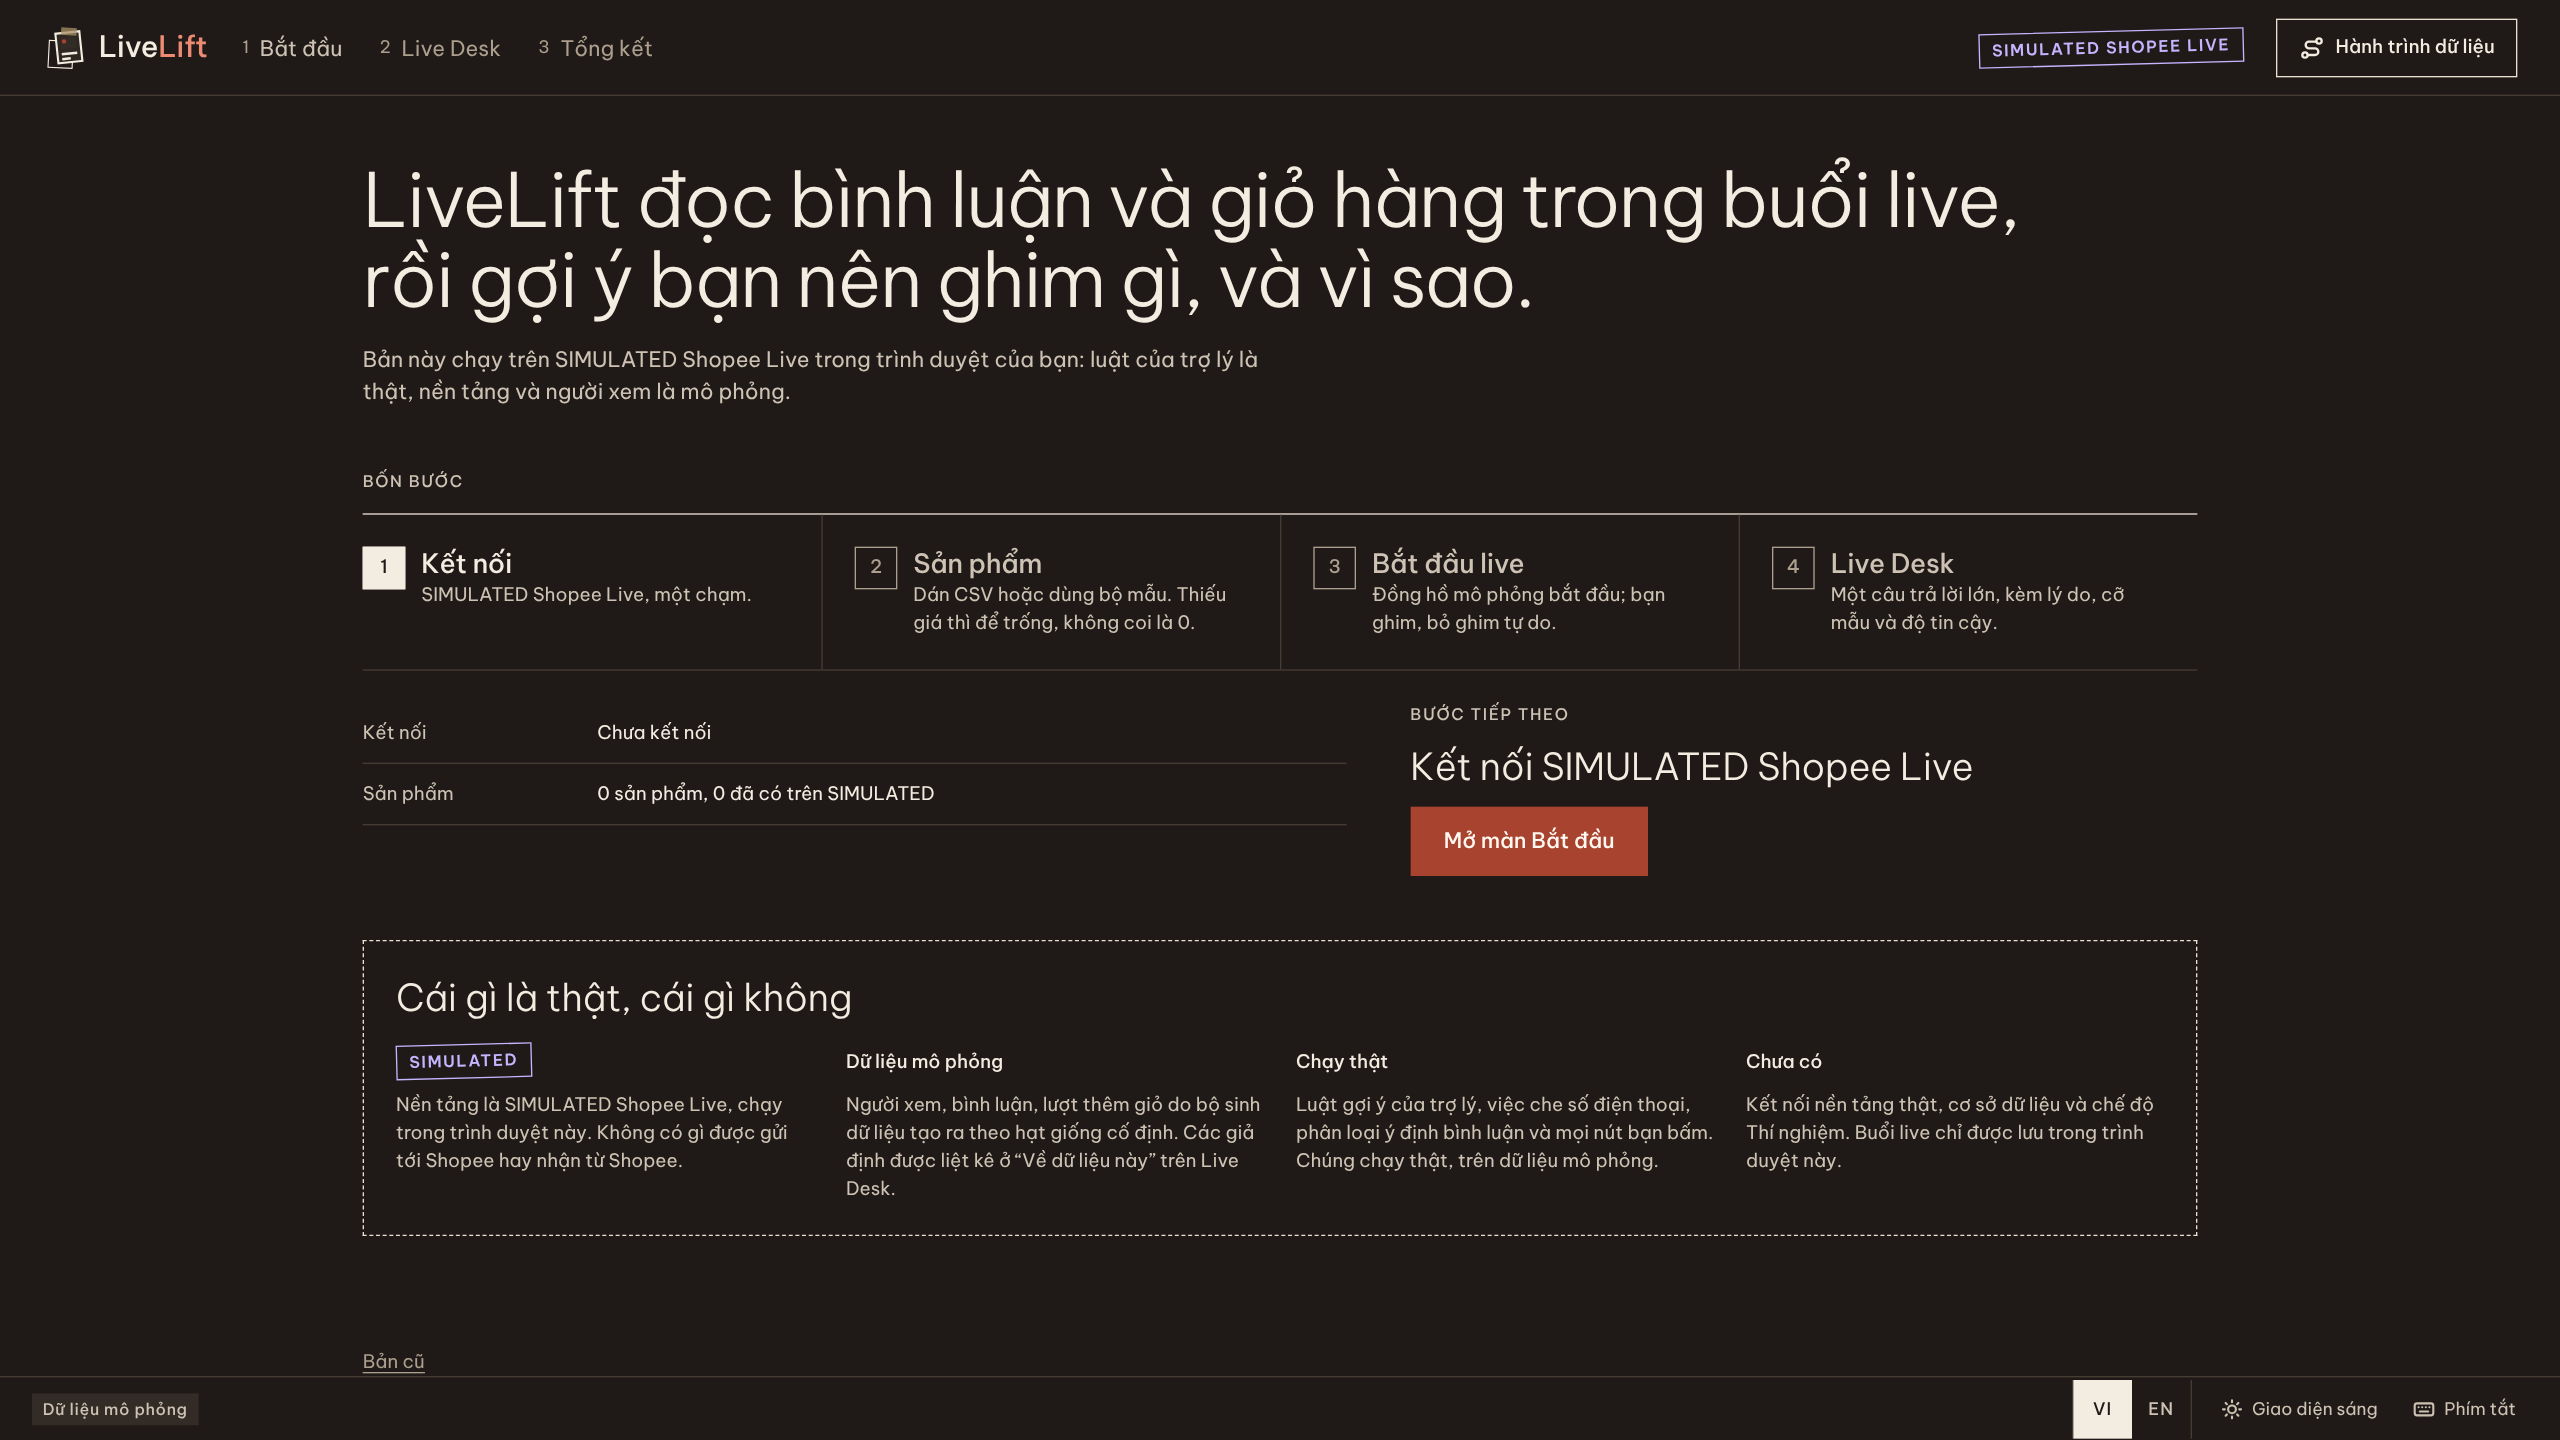
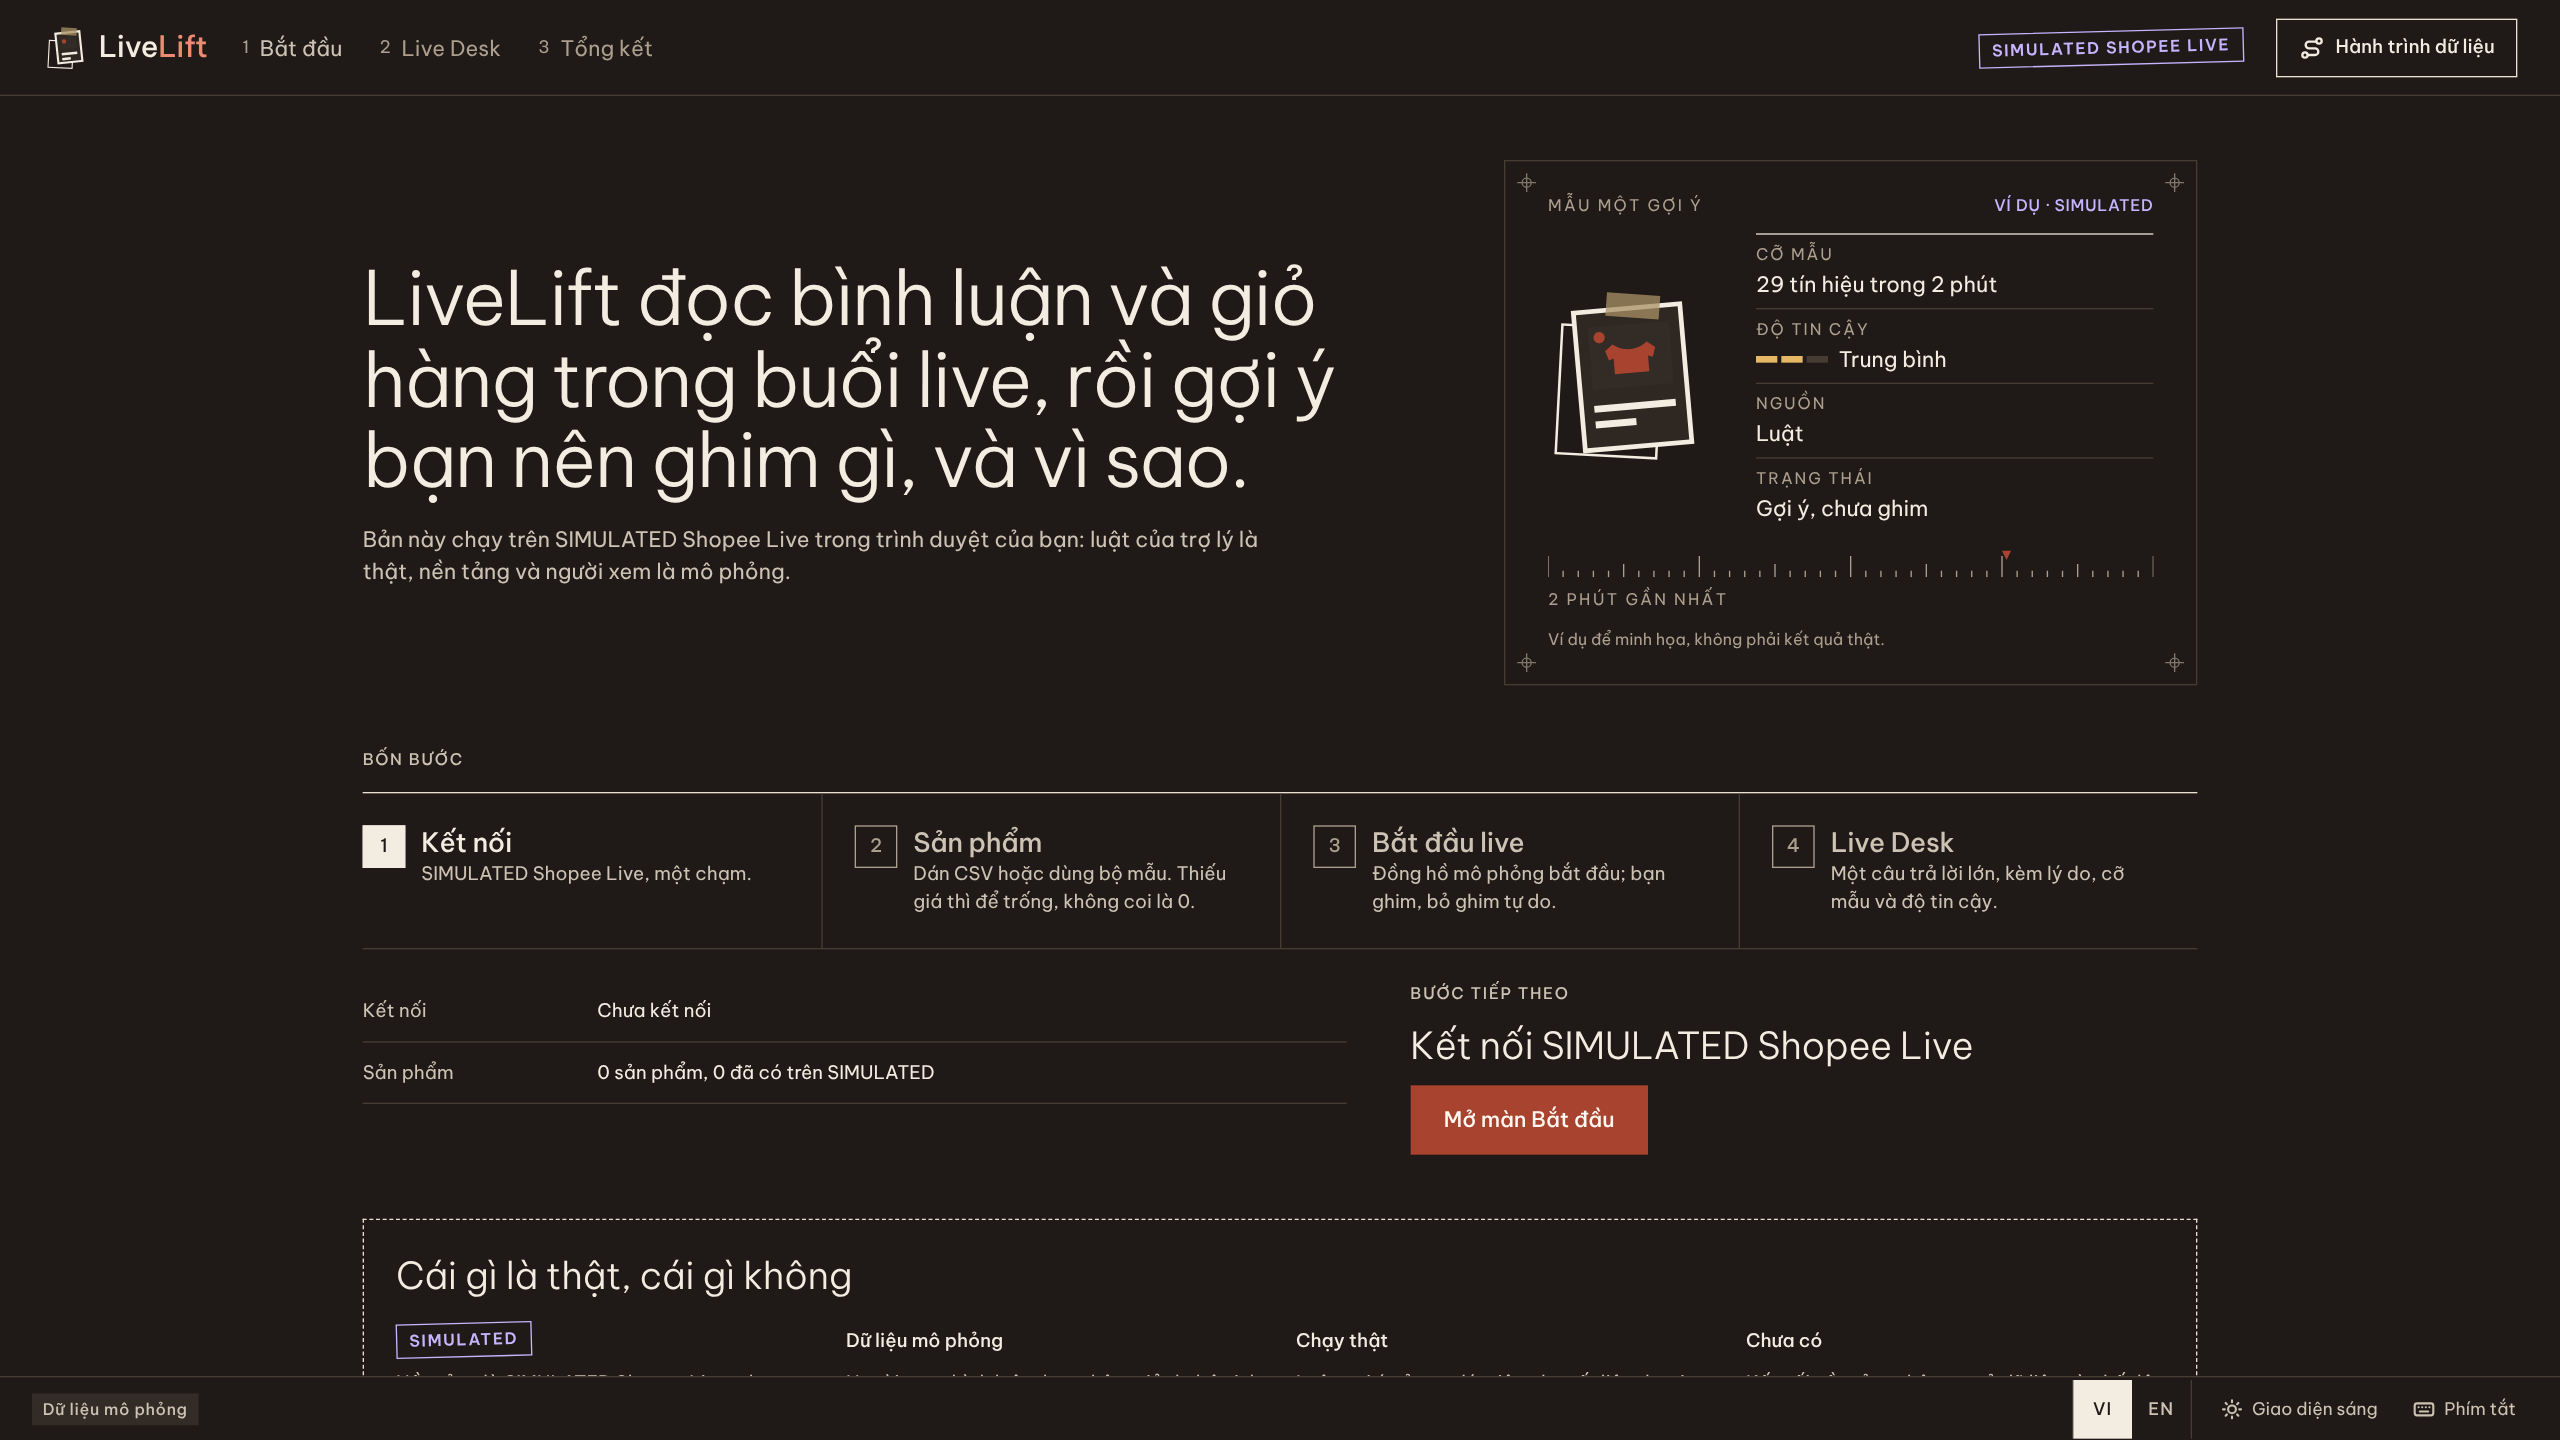
feat(livedesk): Home spec-sheet hero, a decoration whose labels are the real suggestion fields
The labels (sample size, confidence, source, state) are what every suggestion shows; the values are an example and
say so (EXAMPLE, SIMULATED). Hidden from assistive tech, dropped below 1180px. Adds a test, refreshes the Home
screenshots, updates the AGENTS.md baseline.

Claude-Session: https://claude.ai/code/session_01T5jHqYtofkC61PJ5z9MqDx

diff --git a/next/src/components/livedesk/HeroSpec.tsx b/next/src/components/livedesk/HeroSpec.tsx
@@ -1,0 +1,77 @@
+"use client";
+
+import React from "react";
+import { useShell } from "./Shell";
+import { SimTag } from "./ui";
+
+/** A registration mark, as on a printed spec sheet. Decoration only. */
+function Cross({ className }: { className: string }) {
+  return (
+    <svg className={`spec-cross ${className}`} viewBox="0 0 16 16" width="16" height="16" aria-hidden="true" focusable="false">
+      <path d="M8 1v14M1 8h14" fill="none" strokeWidth="1" />
+      <circle cx="8" cy="8" r="3.4" fill="none" strokeWidth="1" />
+    </svg>
+  );
+}
+
+/**
+ * Home's one decoration: the anatomy of a suggestion as a spec sheet. The labels are the real things the desk shows with
+ * every suggestion (sample size, confidence, source, state). The values are an EXAMPLE and say so; nothing here is a result.
+ */
+export function HeroSpec() {
+  const { c } = useShell();
+  const h = c.heroSpec;
+  return (
+    <aside className="spec" aria-hidden="true" data-testid="hero-spec">
+      <Cross className="tl" />
+      <Cross className="tr" />
+      <Cross className="bl" />
+      <Cross className="br" />
+      <div className="spec-head">
+        <span className="spec-kicker">{h.kicker}</span>
+        <SimTag quiet>{h.simTag}</SimTag>
+      </div>
+      <div className="spec-body">
+        <svg className="spec-card" viewBox="0 0 112 118" width="168" height="177" focusable="false">
+          <rect className="lm-back" x="7" y="24" width="64" height="82" fill="none" strokeWidth="1.6" transform="rotate(3 39 65)" />
+          <g transform="rotate(-5 54 58)">
+            <rect className="lm-card" x="20" y="12" width="68" height="88" strokeWidth="3" />
+            <rect className="lm-photo" x="28" y="22" width="52" height="40" />
+            <path className="spec-garment" d="M43 34 L38 38 L40 44 L43 43 L43 53 L65 53 L65 43 L68 44 L70 38 L65 34 Q54 42 43 34 Z" />
+            <circle className="lm-live" cx="35" cy="29" r="3.6" />
+            <rect className="lm-bar" x="28" y="72" width="52" height="4.4" />
+            <rect className="lm-bar" x="28" y="82" width="26" height="4.4" />
+          </g>
+          <rect className="lm-tape" x="37" y="3" width="34" height="15" transform="rotate(4 54 10)" />
+        </svg>
+        <dl className="spec-rows">
+          {h.rows.map(([label, value], i) => (
+            <div key={label}>
+              <dt>{label}</dt>
+              <dd>
+                {i === 1 && (
+                  <span className="spec-meter">
+                    <i className="on" />
+                    <i className="on" />
+                    <i />
+                  </span>
+                )}
+                {value}
+              </dd>
+            </div>
+          ))}
+        </dl>
+      </div>
+      <div className="spec-ruler">
+        <svg viewBox="0 0 400 22" preserveAspectRatio="none" width="100%" height="22" focusable="false">
+          {Array.from({ length: 41 }, (_, i) => (
+            <line key={i} className="spec-tick" x1={i * 10} x2={i * 10} y1={22} y2={i % 10 === 0 ? 6 : i % 5 === 0 ? 12 : 17} />
+          ))}
+          <path className="spec-mark" d="M300 2 l6 0 l-3 7 z" />
+        </svg>
+        <span className="spec-kicker">{h.ruler}</span>
+      </div>
+      <p className="spec-fine">{h.fine}</p>
+    </aside>
+  );
+}

diff --git a/next/src/components/livedesk/calm.css b/next/src/components/livedesk/calm.css
@@ -3677,3 +3677,122 @@
 .ld .lm-tape {
   fill: var(--kraft);
 }
+
+/* WP9: Home hero. The one decoration is a spec sheet of a suggestion: labels are real, the values an example. */
+.ld .home-hero {
+  display: grid;
+  grid-template-columns: minmax(0, 1fr) 520px;
+  gap: var(--s-48);
+  align-items: center;
+}
+.ld .home-hero .home-intro {
+  max-width: 760px;
+}
+.ld .spec {
+  position: relative;
+  display: grid;
+  gap: var(--s-12);
+  padding: var(--s-24) var(--s-32);
+  border: 1px solid var(--line);
+  background: var(--surface);
+  overflow: hidden;
+}
+.ld .spec-cross {
+  position: absolute;
+  stroke: var(--ink-3);
+  opacity: 0.7;
+}
+.ld .spec-cross.tl { top: 8px; left: 8px; }
+.ld .spec-cross.tr { top: 8px; right: 8px; }
+.ld .spec-cross.bl { bottom: 8px; left: 8px; }
+.ld .spec-cross.br { bottom: 8px; right: 8px; }
+.ld .spec-head {
+  display: flex;
+  justify-content: space-between;
+  align-items: center;
+  gap: var(--s-16);
+}
+.ld .spec-kicker {
+  font-size: var(--fs-12);
+  letter-spacing: 0.14em;
+  text-transform: uppercase;
+  color: var(--ink-3);
+}
+.ld .spec-body {
+  display: grid;
+  grid-template-columns: auto minmax(0, 1fr);
+  gap: var(--s-24);
+  align-items: center;
+}
+.ld .spec-card {
+  flex: none;
+  width: 132px;
+  height: auto;
+}
+.ld .spec-garment {
+  fill: var(--signal);
+}
+.ld .spec-rows {
+  display: grid;
+  margin: 0;
+}
+.ld .spec-rows > div {
+  display: grid;
+  gap: 1px;
+  padding: 6px 0;
+  border-top: 1px solid var(--line);
+}
+.ld .spec-rows > div:first-child {
+  border-top: 1px solid var(--line-strong);
+}
+.ld .spec-rows dt {
+  font-size: var(--fs-12);
+  letter-spacing: 0.12em;
+  text-transform: uppercase;
+  color: var(--ink-3);
+}
+.ld .spec-rows dd {
+  display: flex;
+  align-items: center;
+  gap: var(--s-8);
+  margin: 0;
+  font-size: var(--fs-16);
+  color: var(--ink);
+}
+.ld .spec-meter {
+  display: inline-flex;
+  gap: 3px;
+}
+.ld .spec-meter i {
+  width: 16px;
+  height: 5px;
+  background: var(--line);
+}
+.ld .spec-meter i.on {
+  background: var(--warn);
+}
+.ld .spec-ruler {
+  display: grid;
+  gap: var(--s-8);
+}
+.ld .spec-tick {
+  stroke: var(--ink-3);
+  stroke-width: 1;
+  vector-effect: non-scaling-stroke;
+}
+.ld .spec-mark {
+  fill: var(--signal);
+}
+.ld .spec-fine {
+  margin: 0;
+  font-size: var(--fs-12);
+  color: var(--ink-3);
+}
+@media (max-width: 1180px) {
+  .ld .home-hero {
+    grid-template-columns: 1fr;
+  }
+  .ld .spec {
+    display: none;
+  }
+}

diff --git a/next/src/components/livedesk/copy.ts b/next/src/components/livedesk/copy.ts
@@ -60,6 +60,13 @@ const vi = {
   // home
   homeTitle: "LiveLift đọc bình luận và giỏ hàng trong buổi live, rồi gợi ý bạn nên ghim gì, và vì sao.",
   homeLede: "Bản này chạy trên SIMULATED Shopee Live trong trình duyệt của bạn: luật của trợ lý là thật, nền tảng và người xem là mô phỏng.",
+  heroSpec: {
+    kicker: "MẪU MỘT GỢI Ý",
+    simTag: "VÍ DỤ · SIMULATED",
+    rows: [["Cỡ mẫu", "29 tín hiệu trong 2 phút"], ["Độ tin cậy", "Trung bình"], ["Nguồn", "Luật"], ["Trạng thái", "Gợi ý, chưa ghim"]] as [string, string][],
+    ruler: "2 PHÚT GẦN NHẤT",
+    fine: "Ví dụ để minh họa, không phải kết quả thật.",
+  },
   flowLabel: "Bốn bước",
   flow: ["Kết nối", "Sản phẩm", "Bắt đầu live", "Live Desk"],
   flowDone: "Xong", flowNow: "Tiếp theo", flowLater: "Chưa tới",
@@ -314,6 +321,13 @@ const en: Copy = {
   ],
   homeTitle: "LiveLift reads comments and carts during your live, then suggests what to pin next, and why.",
   homeLede: "This version runs on SIMULATED Shopee Live in your browser: the assistant's rules are real, the platform and the viewers are simulated.",
+  heroSpec: {
+    kicker: "ANATOMY OF A SUGGESTION",
+    simTag: "EXAMPLE · SIMULATED",
+    rows: [["Sample size", "29 signals in 2 minutes"], ["Confidence", "Medium"], ["Source", "Rules"], ["State", "Suggested, not pinned"]] as [string, string][],
+    ruler: "LAST 2 MINUTES",
+    fine: "Illustration only, not a real result.",
+  },
   flowLabel: "Four steps",
   flow: ["Connect", "Products", "Start live", "Live Desk"],
   flowDone: "Done", flowNow: "Next", flowLater: "Later",

diff --git a/next/src/components/livedesk/HomeScreen.tsx b/next/src/components/livedesk/HomeScreen.tsx
@@ -5,6 +5,7 @@ import Link from "next/link";
 import { useCurrentLive, useLiveRecap, useStartFlow } from "@/lib/livedesk/hooks";
 import { IconCheck } from "./icons";
 import { duration } from "./i18n";
+import { HeroSpec } from "./HeroSpec";
 import { Shell, useShell } from "./Shell";
 import { SimTag } from "./ui";
 
@@ -32,9 +33,12 @@ function HomeBody() {
   const stateWord = (s: StepState): string => (s === "done" ? c.flowDone : s === "active" ? c.flowNow : c.flowLater);
   return (
     <div className="home">
-      <div className="home-intro">
-        <h1>{c.homeTitle}</h1>
-        <p className="lede">{c.homeLede}</p>
+      <div className="home-hero">
+        <div className="home-intro">
+          <h1>{c.homeTitle}</h1>
+          <p className="lede">{c.homeLede}</p>
+        </div>
+        <HeroSpec />
       </div>
       <section className="home-flow" aria-labelledby="flow-h" data-testid="home-flow">
         <h2 id="flow-h" className="label">{c.flowLabel}</h2>

diff --git a/next/src/__tests__/livedesk/ui/screens.test.tsx b/next/src/__tests__/livedesk/ui/screens.test.tsx
@@ -111,6 +111,15 @@ describe("Routes, language and honesty", () => {
     expect(screen.getByTestId("truth-panel")).toHaveTextContent("Không có gì được gửi tới Shopee");
   });
 
+  it("Home's spec-sheet decoration is hidden from assistive tech and says it is an example, SIMULATED, not a result", () => {
+    render(<HomePage />);
+    const spec = screen.getByTestId("hero-spec");
+    expect(spec).toHaveAttribute("aria-hidden", "true");
+    expect(spec).toHaveTextContent("VÍ DỤ · SIMULATED");
+    expect(spec).toHaveTextContent("không phải kết quả thật");
+    for (const label of ["Cỡ mẫu", "Độ tin cậy", "Nguồn", "Trạng thái"]) expect(spec).toHaveTextContent(label);
+  });
+
   it("Home in English keeps the honesty panel's title", () => {
     english();
     render(<HomePage />);

diff --git a/AGENTS.md b/AGENTS.md
@@ -18,7 +18,7 @@ npm run typecheck && npm run lint && npm test
 npm run build          # for any UI change
 ```
 
-Baseline on 2026-10-09: **88 test files, 1,409 passed, 57 skipped**, typecheck and lint clean. A change may add tests; it may not remove or weaken one.
+Baseline on 2026-10-09: **88 test files, 1,410 passed, 57 skipped**, typecheck and lint clean. A change may add tests; it may not remove or weaken one.
 Paste the summary line of each command in your report. Do not claim a result you did not see.
 
 ## Non-negotiable: the evidence model
